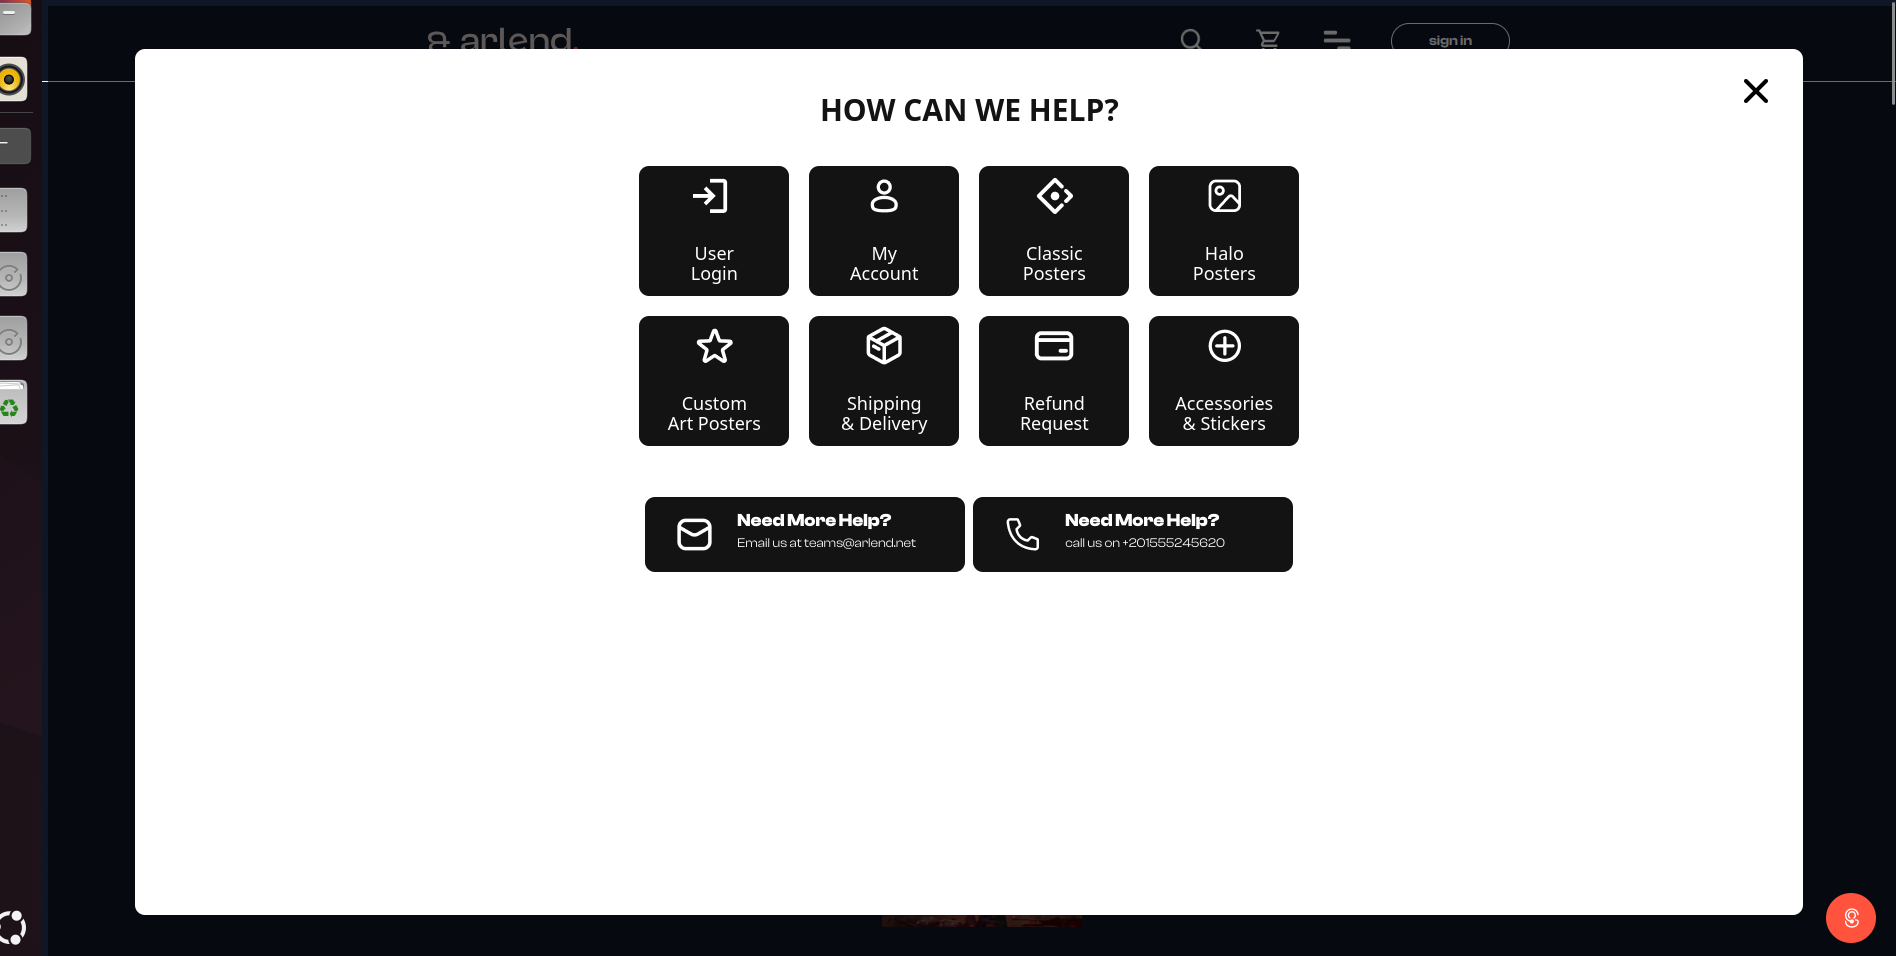
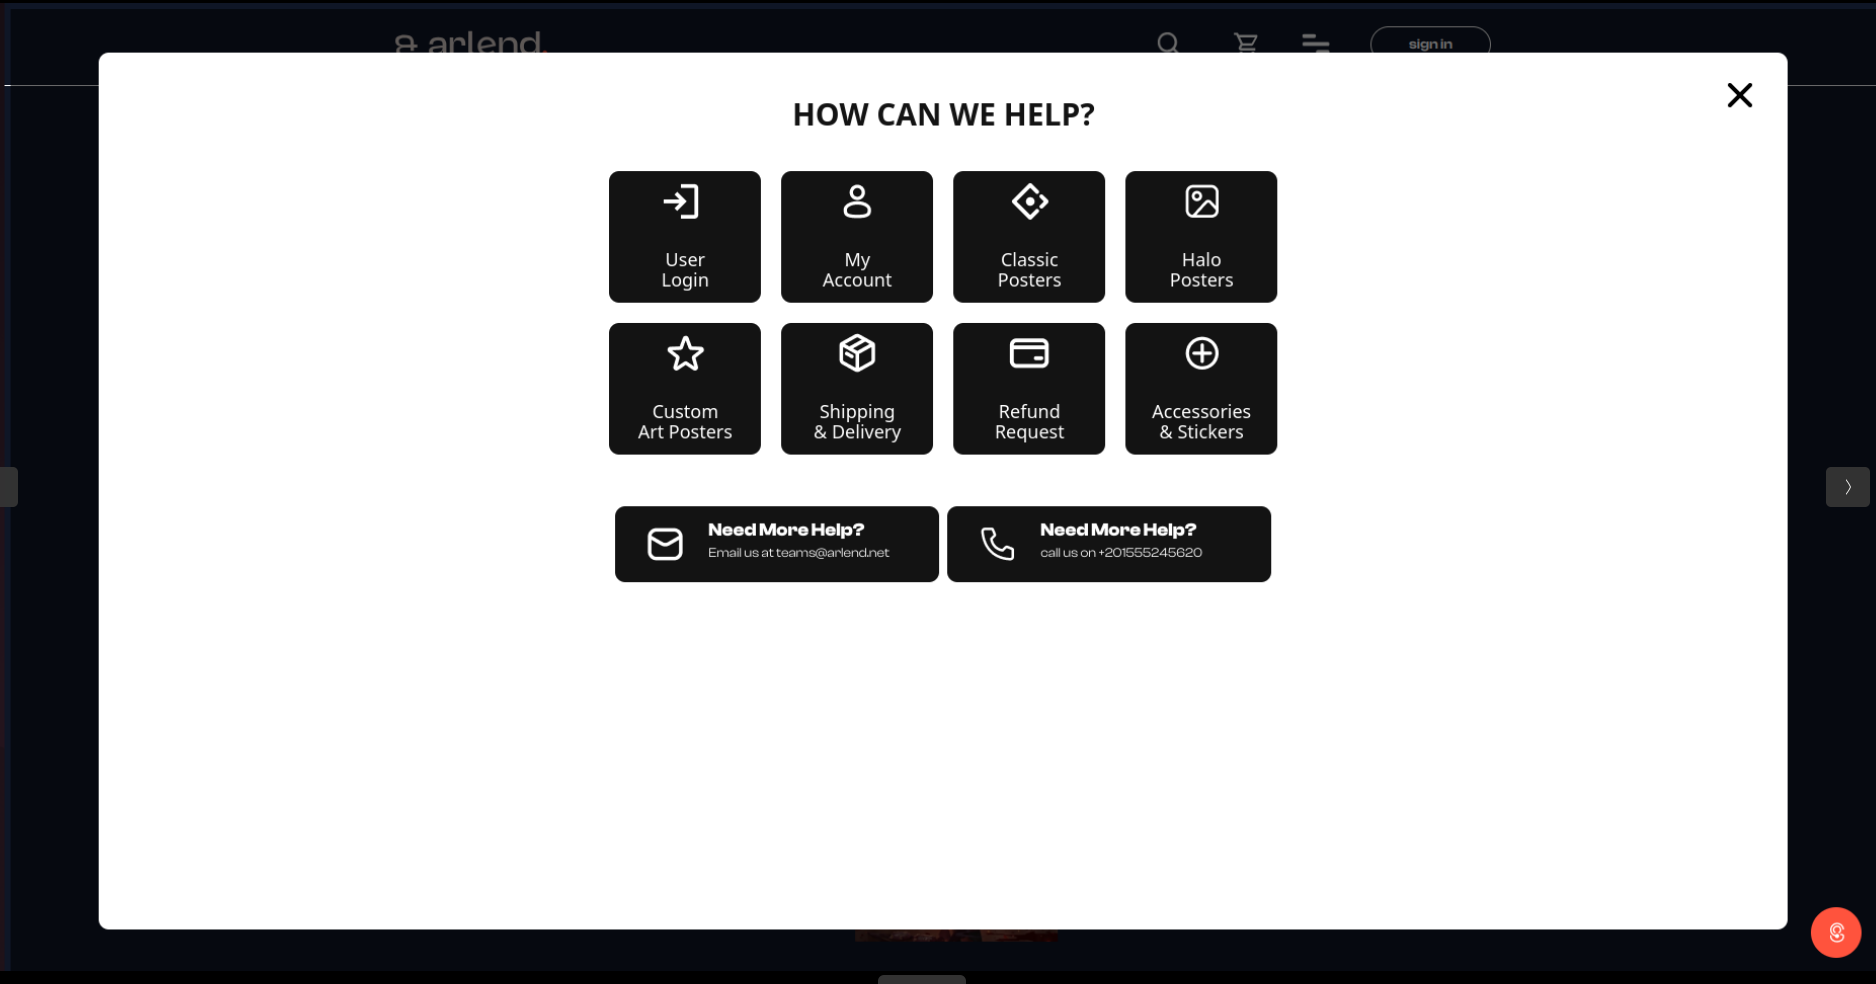
update Readme 3

diff --git a/README.md b/README.md
@@ -147,7 +147,7 @@ Full product browsing with a navbar quick-search for instant results by name or 
 **Infinite Scroll Pagination**
 Zero duplicate products across pages — handled at the query level, not patched at the UI level.
 
-![Infinite Scroll](public/infinite-scroll.png)
+![Infinite Scroll](public/infinite-scroll.gif)
 
 ---
 
